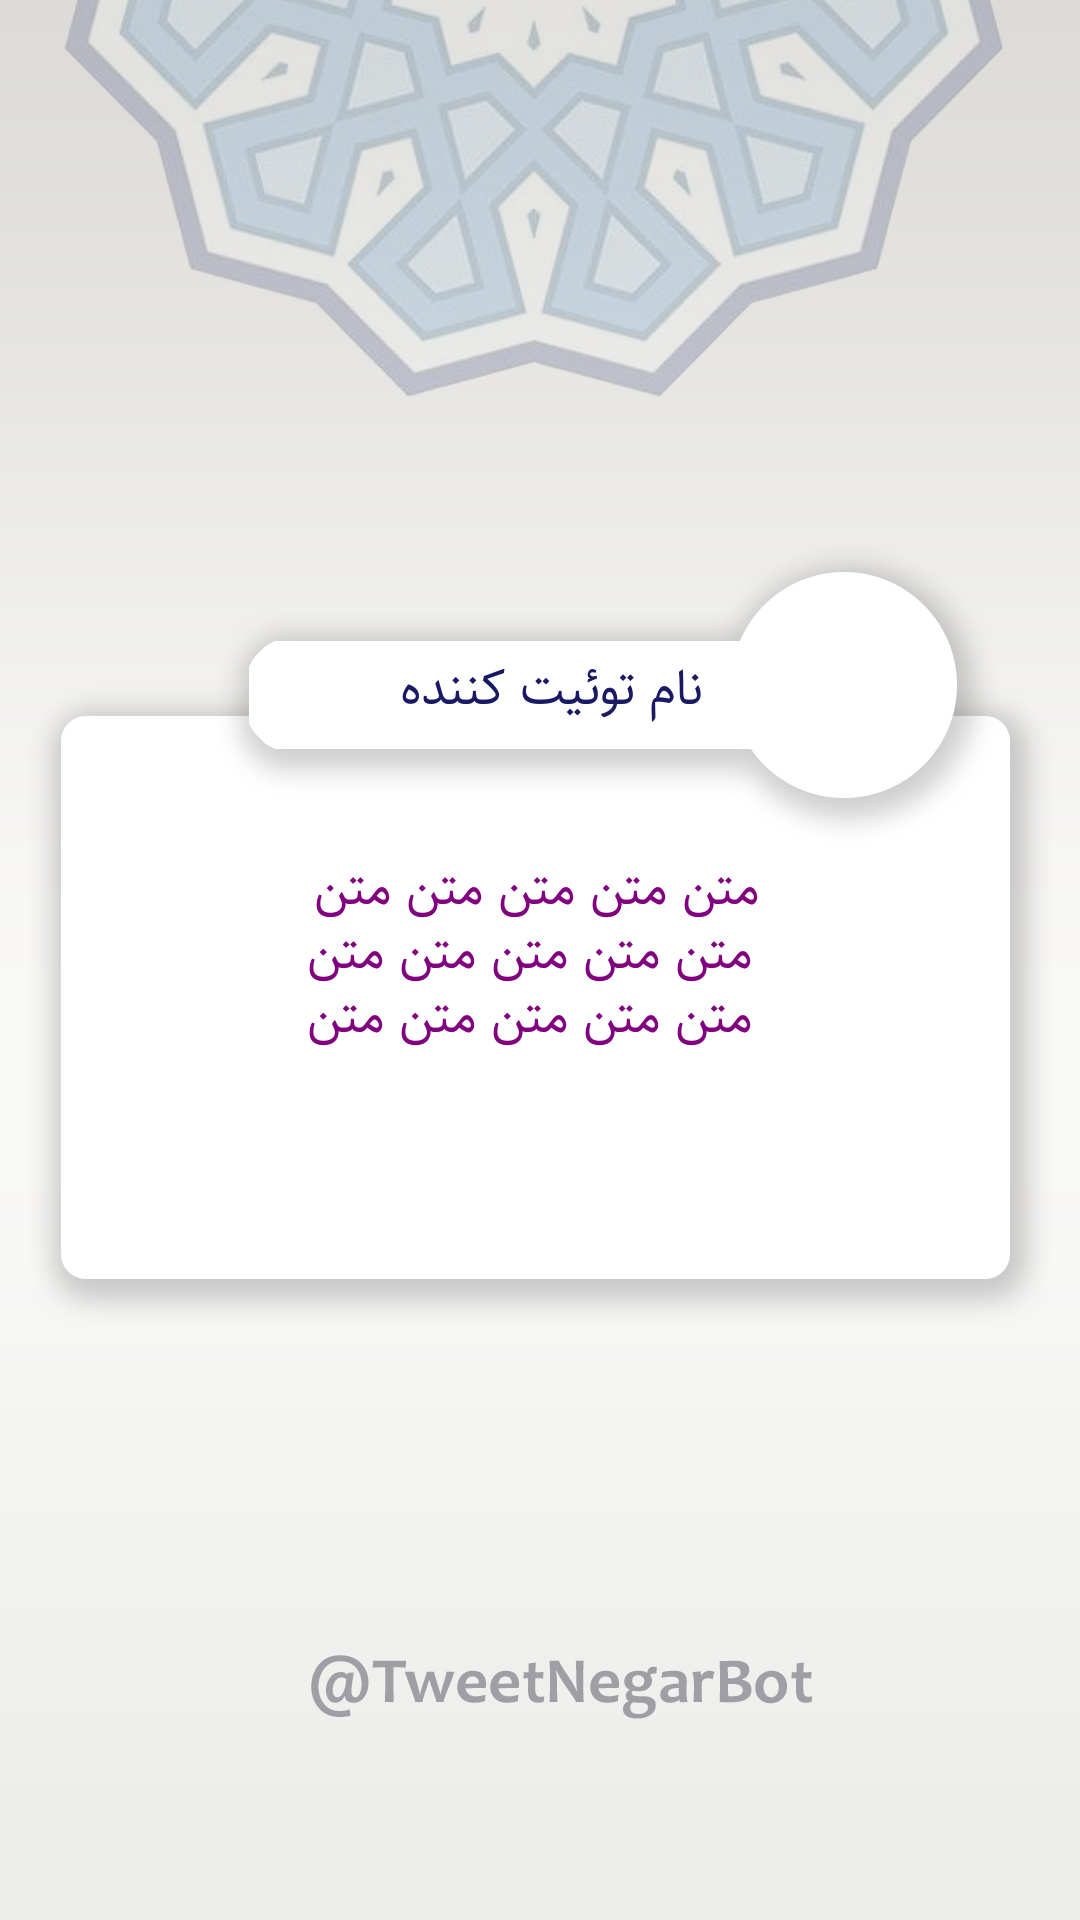
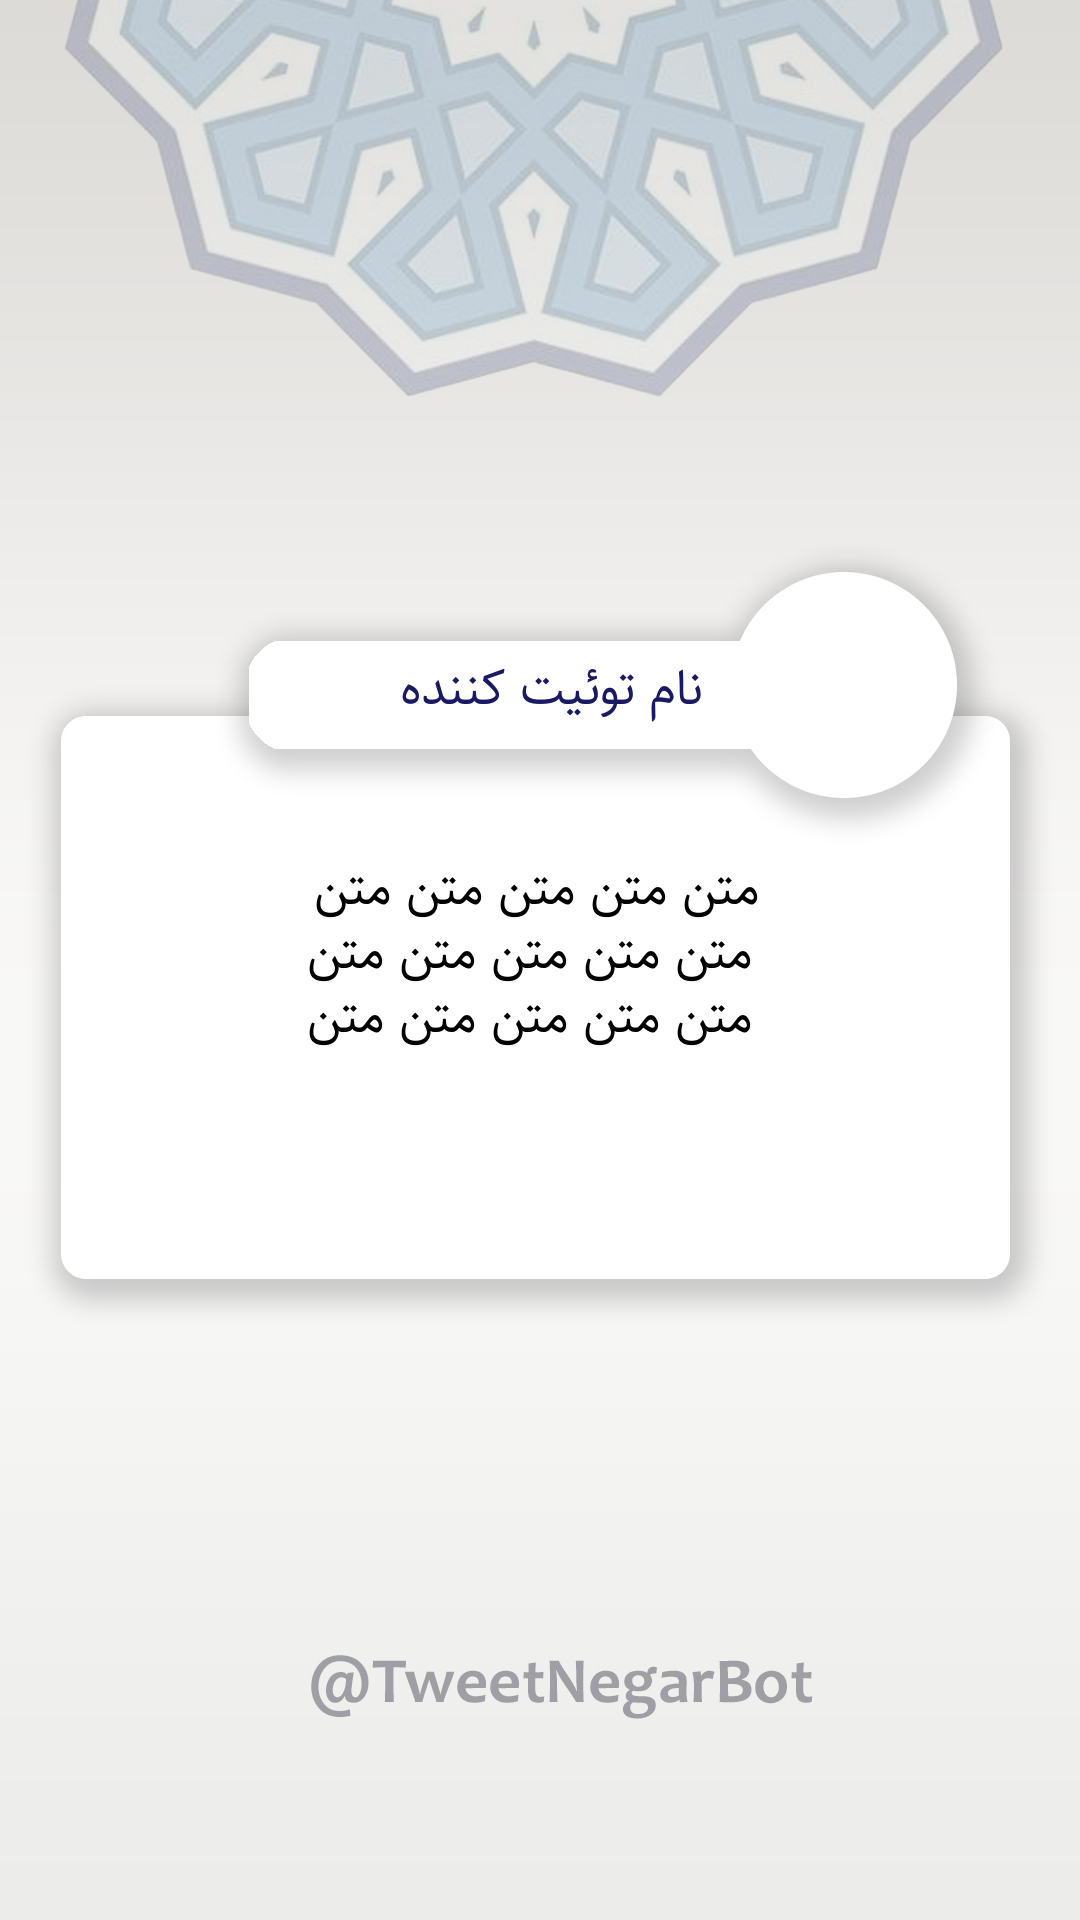
font color changed

diff --git a/persian_char.py b/persian_char.py
@@ -40,7 +40,7 @@ cy = h//2
 draw = ImageDraw.Draw(image)
 draw.text((400, 650), bidi_name, (25, 25, 100), font=font, spacing=0, align='right')
 
-draw.multiline_text((300, 850), bidi_text, fill='purple', font=font, spacing=10, align='center')
+draw.multiline_text((300, 850), bidi_text, fill='black', font=font, spacing=10, align='center')
 
 draw = ImageDraw.Draw(image)
 
